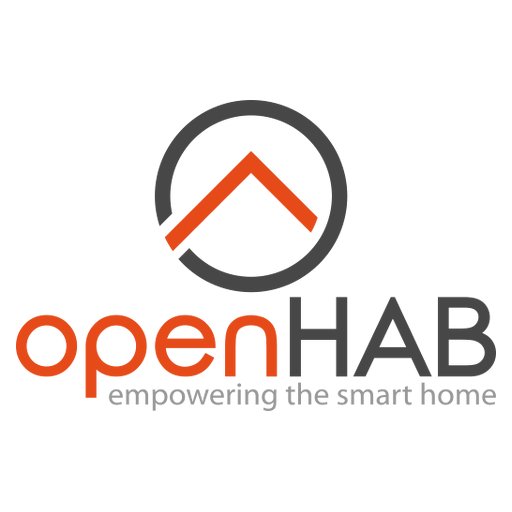
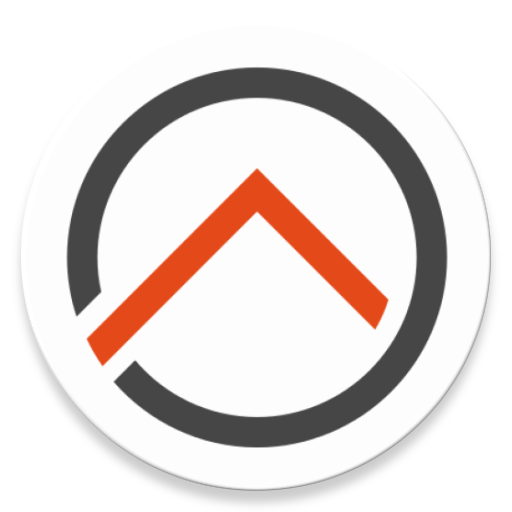
Add fastlane templates for fdroid (#772)
* Add fastlane templates for fdroid

F-Droid has a different syntax highlighting: https://f-droid.org/en/docs/Build_Metadata_Reference/#Description

I also added a sentence about the removed features.

* Revert "Use icon from play store (#773)"

The app icon with its white background looks better than an image with
transparent background.
This reverts commit 156457623ee331b566c5580ce67eb9ef0a038985.

* Add newline in F-Droid description

* White background in the feature graphic

* Add badges to readme

Changed region(s): [[0.0312, 0.125, 0.9688, 1.0], [0.9062, 0.2812, 0.9375, 0.375], [0.875, 0.25, 0.9062, 0.2812]]

diff --git a/README.md b/README.md
@@ -21,7 +21,9 @@
 
 openHAB Android application is a native client for openHAB. It uses REST API of openHAB to render sitemaps of your openHAB.
 
-<a href="https://play.google.com/store/apps/details?id=org.openhab.habdroid"><img src="https://play.google.com/intl/en_us/badges/images/generic/en_badge_web_generic.png" height="80"></a>
+<a href="https://play.google.com/store/apps/details?id=org.openhab.habdroid"><img src="https://play.google.com/intl/en_us/badges/images/generic/en_badge_web_generic.png" alt="Get it on Play Store" height="80"></a>
+<a href="https://f-droid.org/app/org.openhab.habdroid"><img src="https://f-droid.org/badge/get-it-on.png" alt="Get it on F-Droid" height="80"></a>
+<a href="https://github.com/openhab/openhab-android/releases"><img src="https://raw.githubusercontent.com/openhab/openhab-android/master/assets/direct-apk-download.png" alt="Get it on GitHub" height="80"></a>
 
 ## Features
 * Control your openHAB server and [openHAB Cloud instance](https://github.com/openhab/openhab-cloud)
@@ -31,7 +33,7 @@ openHAB Android application is a native client for openHAB. It uses REST API of 
 * Discover devices and add them as items
 * Supports wall mounted tablets
 
-<img src="https://raw.githubusercontent.com/openhab/openhab.android/master/fastlane/metadata/android/en-US/phoneScreenshots/main_menu.png" width="200px"> <img src="https://raw.githubusercontent.com/openhab/openhab.android/master/fastlane/metadata/android/en-US/phoneScreenshots/widget_overview.png" width="200px"> <img src="https://raw.githubusercontent.com/openhab/openhab.android/master/fastlane/metadata/android/en-US/phoneScreenshots/astro_binding.png" width="200px">
+<img src="https://raw.githubusercontent.com/openhab/openhab-android/master/fastlane/metadata/android/en-US/phoneScreenshots/main_menu.png" width="200px"> <img src="https://raw.githubusercontent.com/openhab/openhab-android/master/fastlane/metadata/android/en-US/phoneScreenshots/widget_overview.png" width="200px"> <img src="https://raw.githubusercontent.com/openhab/openhab-android/master/fastlane/metadata/android/en-US/phoneScreenshots/astro_binding.png" width="200px">
 
 ## Localization
 
@@ -55,7 +57,7 @@ If you want to contribute to Android application we are here to help you to set 
 
 You are ready to contribute!
 
-Before producing any amount of code please have a look at [contribution guidelines](https://github.com/openhab/openhab.android/blob/master/CONTRIBUTING.md)
+Before producing any amount of code please have a look at [contribution guidelines](https://github.com/openhab/openhab-android/blob/master/CONTRIBUTING.md)
 
 ## Build flavors
 
